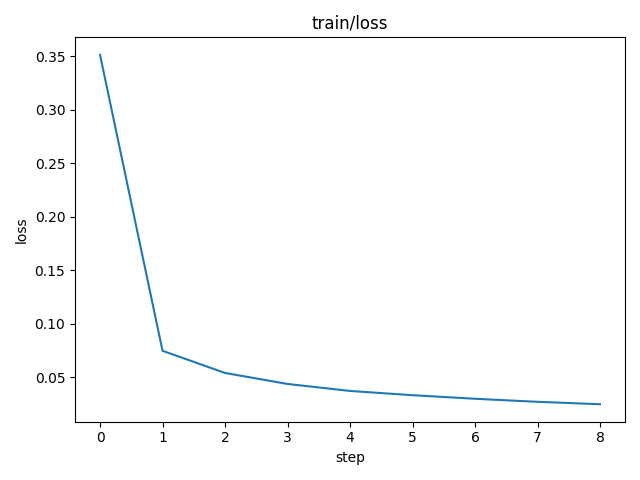
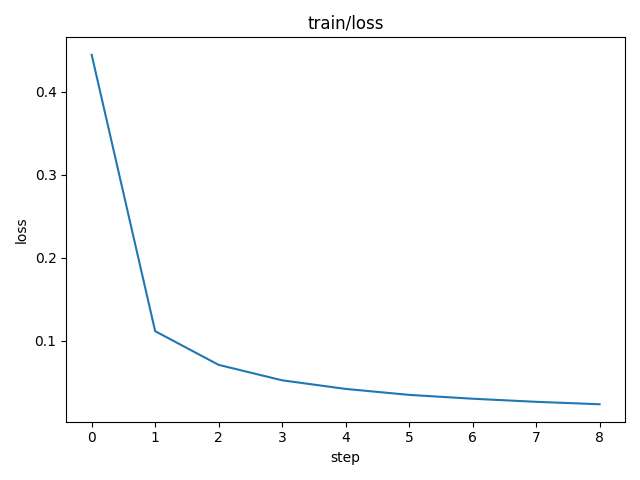
CML PR for 51c4412b [skip ci]

diff --git a/results/evaluate/report.md b/results/evaluate/report.md
@@ -4,24 +4,24 @@ metrics.json
 
 |   dice_multi |
 |--------------|
-|     0.913767 |
+|     0.898098 |
 
-![REGION_1-24_0_1024_0_1024.png](plots/images/REGION_1-24_0_1024_0_1024.png)
+![REGION_1-24_1024_2048_2048_3072.png](plots/images/REGION_1-24_1024_2048_2048_3072.png)
 
-![REGION_1-24_1136_2160_1024_2048.png](plots/images/REGION_1-24_1136_2160_1024_2048.png)
+![REGION_2-4_1136_2160_2816_3840.png](plots/images/REGION_2-4_1136_2160_2816_3840.png)
 
-![REGION_3-25_1136_2160_0_1024.png](plots/images/REGION_3-25_1136_2160_0_1024.png)
+![REGION_3-8_0_1024_2816_3840.png](plots/images/REGION_3-8_0_1024_2816_3840.png)
 
-![REGION_3-8_1024_2048_2816_3840.png](plots/images/REGION_3-8_1024_2048_2816_3840.png)
+![REGION_4-12_1024_2048_0_1024.png](plots/images/REGION_4-12_1024_2048_0_1024.png)
 
-![REGION_4-12_0_1024_2816_3840.png](plots/images/REGION_4-12_0_1024_2816_3840.png)
+![REGION_4-12_1024_2048_2048_3072.png](plots/images/REGION_4-12_1024_2048_2048_3072.png)
 
-![REGION_4-12_1136_2160_2048_3072.png](plots/images/REGION_4-12_1136_2160_2048_3072.png)
+![REGION_4-22_1136_2160_2048_3072.png](plots/images/REGION_4-22_1136_2160_2048_3072.png)
 
-![REGION_5-7_1136_2160_1024_2048.png](plots/images/REGION_5-7_1136_2160_1024_2048.png)
+![REGION_6-13_0_1024_1024_2048.png](plots/images/REGION_6-13_0_1024_1024_2048.png)
 
-![REGION_7-3_0_1024_2048_3072.png](plots/images/REGION_7-3_0_1024_2048_3072.png)
+![REGION_6-20_1024_2048_1024_2048.png](plots/images/REGION_6-20_1024_2048_1024_2048.png)
 
-![REGION_8-24_0_1024_1024_2048.png](plots/images/REGION_8-24_0_1024_1024_2048.png)
+![REGION_7-3_1024_2048_0_1024.png](plots/images/REGION_7-3_1024_2048_0_1024.png)
 
-![REGION_8-24_1024_2048_2048_3072.png](plots/images/REGION_8-24_1024_2048_2048_3072.png)
+![REGION_8-24_1136_2160_1024_2048.png](plots/images/REGION_8-24_1136_2160_1024_2048.png)

diff --git a/results/train/report.md b/results/train/report.md
@@ -8,12 +8,12 @@ params.yaml
 
 metrics.json
 
-| train                         | eval                           |   dice_multi |   step |
-|-------------------------------|--------------------------------|--------------|--------|
-| {'loss': 0.02454080432653427} | {'loss': 0.020560776814818382} |     0.891903 |      8 |
+| train                         | eval                          |   dice_multi |   step |
+|-------------------------------|-------------------------------|--------------|--------|
+| {'loss': 0.02343800663948059} | {'loss': 0.01427343301475048} |     0.941468 |      8 |
 
 ![static/dice_multi](static/dice_multi.png)
 
-![static/eval/loss](static/eval/loss.png)
-
 ![static/train/loss](static/train/loss.png)
+
+![static/eval/loss](static/eval/loss.png)
